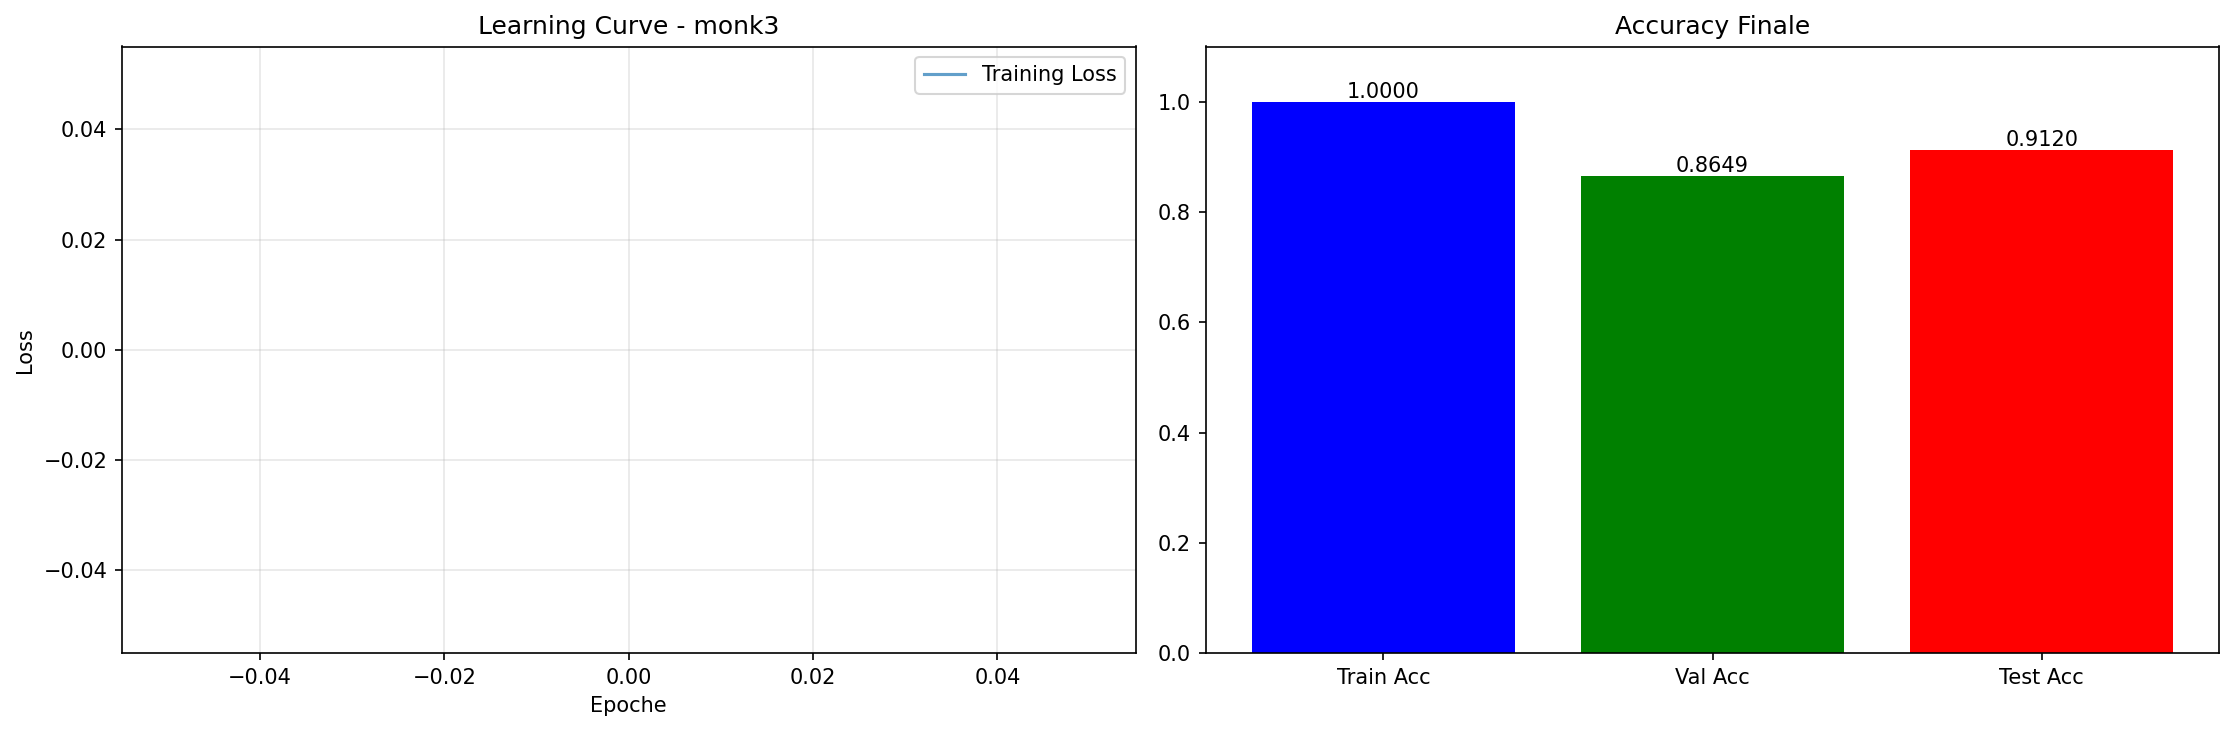
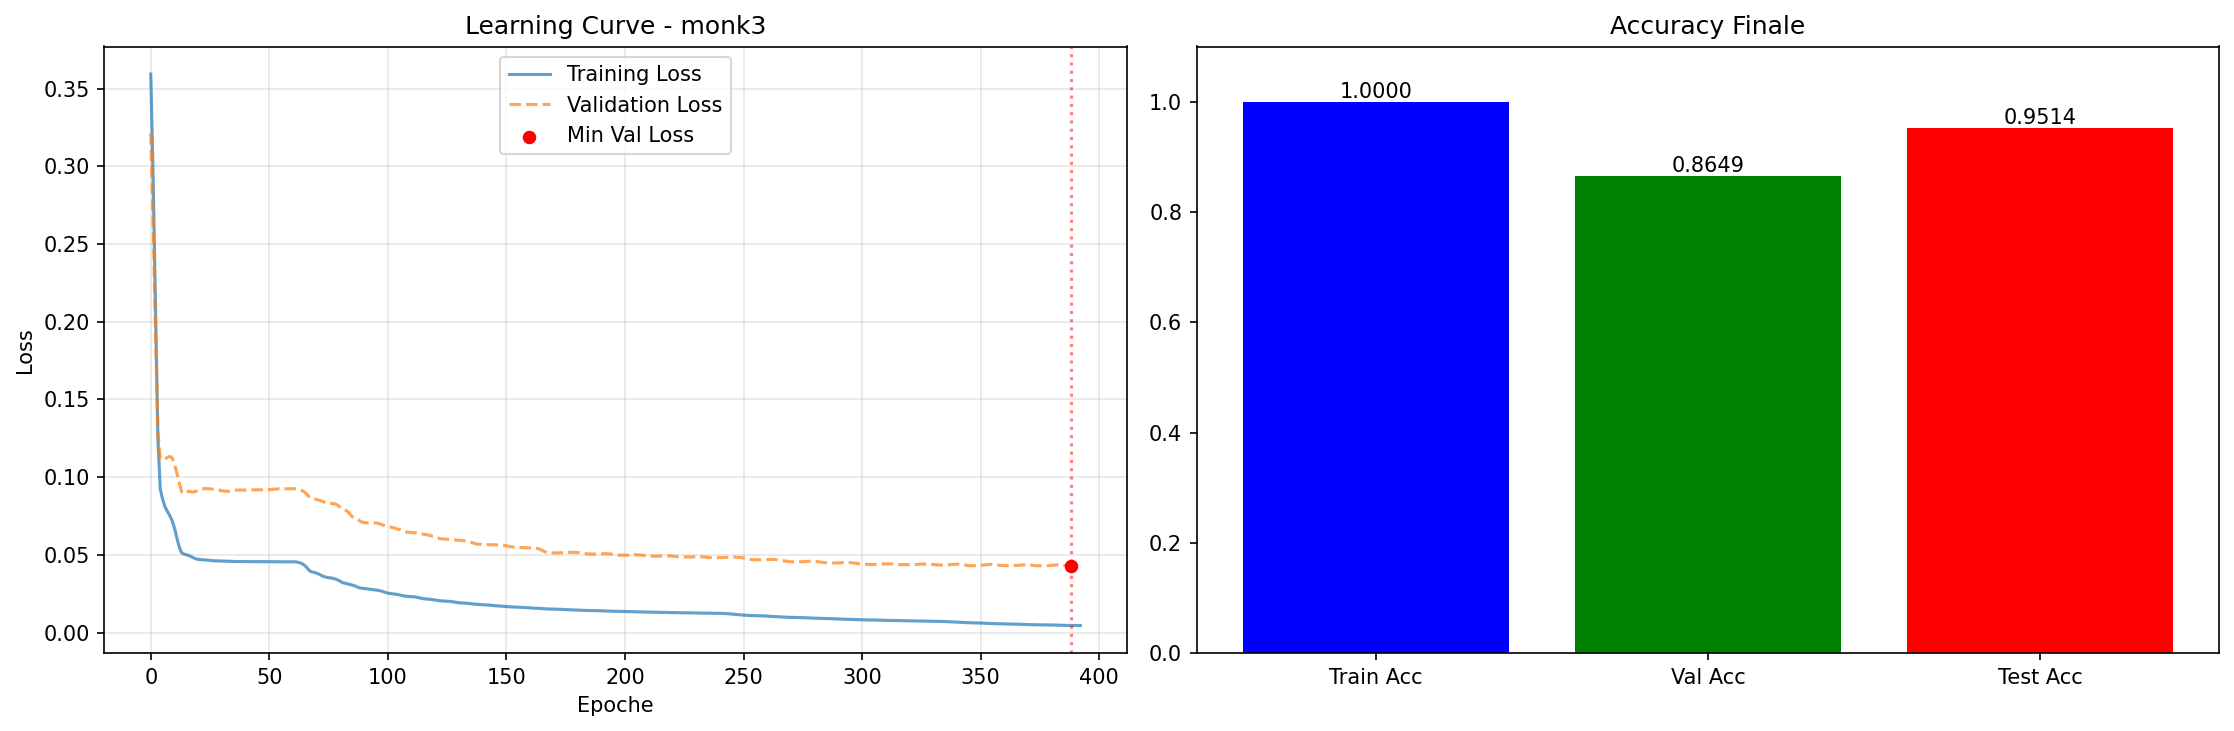
test-1-grid-not-good

diff --git a/src/cascade_grid_search.py b/src/cascade_grid_search.py
@@ -52,16 +52,17 @@ class CascadeGridSearch:
                 algorithm=params['algorithm']
             )
 
-            loss_history = net.train(
+            _ = net.train(
                 self.X_train, self.y_train, 
+                X_val = self.X_val, y_val = self.y_val,
                 max_epochs=params.get('epochs', 1000), 
                 tolerance=params['tolerance'], 
                 patience=params['patience'], 
                 max_hidden_units=params['max_hidden_units']
             )
             
-            print(f"DEBUG TYPE: {type(loss_history)}")
-            print(f"DEBUG CONTENT: {loss_history}") # Stampe di debug
+            loss_history = net.loss_history
+            val_loss_history = net.val_loss_history
             
             y_pred_train = np.array([net.forward(x) for x in self.X_train])
             y_pred_val = np.array([net.forward(x) for x in self.X_val])
@@ -76,7 +77,8 @@ class CascadeGridSearch:
                 'val_loss': val_loss,
                 'test_loss': test_loss,
                 'min_val_loss': val_loss, 
-                'history': loss_history
+                'history': loss_history,
+                'val_history': val_loss_history
             }
             
             if self.dataset_name != 'cup':
@@ -96,30 +98,60 @@ class CascadeGridSearch:
     def coarse_grid_search(self):
         print("INIZIO COARSE SEARCH CASCADE")
 
-        param_grid = {
-            'learning_rate': [0.01, 0.05, 0.1],   
-            'patience': [20, 50],                 
-            'tolerance': [0.01, 0.001],           
-            'max_hidden_units': [5, 10, 15],  # Importante per limitare la crescita    
-            'algorithm': ['quickprop', 'rprop'],
-            'epochs': [1000] # Solitamente fisso alto, tanto si ferma con la pazienza
-        }
+        if self.dataset_name == 'cup':
+            
+            param_grid = {
+                'learning_rate': [0.005, 0.01, 0.05],   
+                'patience': [30, 50, 70],                 
+                'tolerance': [0.001, 0.005, 0.01],           
+                'max_hidden_units': [5, 10, 15],  # Importante per limitare la crescita    
+                'algorithm': ['sgd', 'quickprop', 'rprop'],
+                'l2_lambda': [0.0001, 0.001, 0.01],  # Aggiunta regolarizzazione L2
+                'epochs': [2000], # Solitamente fisso alto, tanto si ferma con la pazienza
+                'momentum': [0.0],  
+                'mu': [0.0],
+                'eta_plus': [0.0],
+                'eta_minus': [0.0]
+            }
+        else:
+            param_grid = {
+                'learning_rate': [0.01, 0.05, 0.1],   
+                'patience': [20, 30],                 
+                'tolerance': [0.01, 0.02, 0.05],           
+                'max_hidden_units': [1, 2],  # Importante per limitare la crescita    
+                'algorithm': ['rprop', 'quickprop'],
+                'momentum': [0.0],  
+                'mu': [1.25, 1.5, 1.75],      # Solo per Quickprop
+                'eta_plus': [1.1, 1.2, 1.3],  # Solo per RPROP
+                'eta_minus': [0.4, 0.5, 0.6], # Solo per RPROP
+                'epochs': [1000], # Solitamente fisso alto, tanto si ferma con la pazienza
+                'l2_lambda': [0.01, 0.05, 0.1]
+            }
         
         # Filtra i parametri non necessari per certi algoritmi
         all_combinations = []
+        default_mu = param_grid['mu'][0]
+        default_ep = param_grid['eta_plus'][0]
+        default_em = param_grid['eta_minus'][0]
+        
         for combo in itertools.product(*param_grid.values()):
             params = dict(zip(param_grid.keys(), combo))
             
+            algo = params['algorithm']
             # Filtra combinazioni inappropriate
-            if params['algorithm'] == 'sgd' and params['momentum'] == 0.0:
-                # Per SGD senza momentum, non serve mu
-                params['mu'] = 1.75  # Valore di default
+            if algo == 'sgd':
+                if params['mu'] != default_mu or params['eta_plus'] != default_ep or params['eta_minus'] != default_em:
+                    continue
                 all_combinations.append(params)
-            elif params['algorithm'] in ['rprop', 'quickprop']:
-                # Per RPROP e Quickprop, non usiamo momentum
-                params['momentum'] = 0.0
+            elif algo == 'rprop':
+                if params['momentum'] != 0.0 or params['mu'] != default_mu:
+                    continue
                 all_combinations.append(params)
-        
+            elif algo == 'quickprop':
+                if params['momentum'] != 0.0 or params['eta_plus'] != default_ep or params['eta_minus'] != default_em:
+                    continue
+            all_combinations.append(params)
+                
         print(f"Numero totale di combinazioni: {len(all_combinations)}")
         
         best_score = float('inf')
@@ -249,22 +281,24 @@ class CascadeGridSearch:
         """Crea grafici dei risultati"""
         fig, axes = plt.subplots(1, 2, figsize=(15, 5))
         
-        training_loss = []
-        validation_loss = []
-            
-        # History è una lista o array numpy
-        if isinstance(history, (list, np.ndarray)):
-            training_loss = history
-            validation_loss = [] 
+        # 1. Recupera le liste corrette
+        training_loss = history
+        # Cerca 'val_history' nel dizionario dei risultati, se non c'è usa lista vuota
+        validation_loss = results.get('val_history', []) 
         
         # Grafico 1: Loss Curves
         axes[0].plot(training_loss, label='Training Loss', alpha=0.7)
         
+        # 2. Plotta la validation solo se contiene dati
         if len(validation_loss) > 0:
-            axes[0].plot(validation_loss, label='Validation Loss', alpha=0.7)
+            axes[0].plot(validation_loss, label='Validation Loss', alpha=0.7, linestyle='--')
+            
             # Minima validation loss
             min_val_idx = np.argmin(validation_loss)
-            axes[0].axvline(x=min_val_idx, color='r', linestyle='--', alpha=0.5)
+            min_val_val = validation_loss[min_val_idx]
+            axes[0].axvline(x=min_val_idx, color='r', linestyle=':', alpha=0.5)
+            # Aggiunge un pallino nel punto di minimo
+            axes[0].scatter(min_val_idx, min_val_val, c='red', s=30, zorder=5, label='Min Val Loss')
             
         axes[0].set_xlabel('Epoche')
         axes[0].set_ylabel('Loss')
@@ -272,7 +306,7 @@ class CascadeGridSearch:
         axes[0].legend()
         axes[0].grid(True, alpha=0.3)
         
-        # Grafico 2: Bar plot delle metriche finali
+        # Grafico 2: Bar plot delle metriche finali 
         if self.dataset_name in ['monk1', 'monk2', 'monk3']:
             metrics = ['Train Acc', 'Val Acc', 'Test Acc']
             values = [results.get('train_accuracy', 0), results.get('val_accuracy', 0), results.get('test_accuracy', 0)]
@@ -300,10 +334,9 @@ class CascadeGridSearch:
         # Salva il grafico
         filename = f'cascade_results_{self.dataset_name}.png'
         plt.savefig(filename, dpi=150, bbox_inches='tight')
-         # plt.show()
         
         print(f"\nGrafico salvato come: {filename}")
-    
+        
     def run(self):
         #esegue la grid search completa
         print(f"\n{'='*80}")

diff --git a/src/cascade_correlation.py b/src/cascade_correlation.py
@@ -2,7 +2,7 @@ import numpy as np
 import neuron as nrn
 
 class CascadeNetwork:
-    def __init__(self, n_inputs, n_outputs, learning_rate=0.1, algorithm="quickprop"):
+    def __init__(self, n_inputs, n_outputs, learning_rate=0.1, algorithm="quickprop", l2_lambda=0.0):
         """
         Inizializza la rete per la Fase 0 in cui non c'è nessuna unità nascosta.
         """
@@ -10,6 +10,7 @@ class CascadeNetwork:
         self.n_outputs = n_outputs
         self.learning_rate = learning_rate
         self.algorithm = algorithm
+        self.l2_lambda = l2_lambda
         
         # La classe CascadeNetwork incapsula i neuroni di output 
         # e il costruttore provvede a costruire i neuroni autonomamente
@@ -29,6 +30,8 @@ class CascadeNetwork:
         # Qui verranno salvati i neuroni nascosti più avanti
         # e sarà l'algoritmo in modo autonomo a decidere se e quanti aggiungerne
         self.hidden_units = []
+        self.loss_history = []
+        self.val_loss_history = []
 
     def forward(self, input_pattern):
         """
@@ -51,12 +54,38 @@ class CascadeNetwork:
             
         return np.array(outputs)
     
-    def train_phase_0(self, X, y, epochs=1000, tolerance=0.01, patience=20):
+    def calculate_loss(self, X, y):
+        """Calcola la loss (MSE) su un dato set (es. Validation)"""
+        if len(X) == 0: return 0.0
+        
+        total_error = 0.0
+        for i in range(len(X)):
+            pattern = X[i]
+            target_pattern = y[i]
+            outputs = self.forward(pattern)
+            
+            for idx in range(len(self.output_neurons)):
+                if isinstance(target_pattern, (list, np.ndarray)):
+                    target = target_pattern[idx]
+                else:
+                    target = target_pattern
+                output = outputs[idx]
+                total_error += 0.5 * (target - output) ** 2
+        
+        return total_error / len(X)
+    
+    def train_phase_0(self, X, y, X_val=None, y_val=None, epochs=1000, tolerance=0.01, patience=20):
         """
         Addestramento dei pesi Input -> Output.
         X: Dataset di input
         y: Target 
         """
+        
+        if not hasattr(self, 'loss_history'):
+            self.loss_history = []
+        if not hasattr(self, 'val_loss_history'):
+            self.val_loss_history = []
+            
         min_error = float('inf') # Inizializza il minimo errore a infinito
         patience_counter = 0 # Contatore per la logica di early stopping
         batch_size = len(X) # Usiamo full-batch perché la Cascade Correlation lo richiede   
@@ -85,14 +114,21 @@ class CascadeNetwork:
                     neuron.compute_delta(error_signal) # Calcola il delta per il neurone di output
                     output = outputs[idx]
                     error_signal = target - output
-                    neuron.compute_delta(error_signal) # Calcola il delta per il neurone di output
                     neuron.accumulate_gradients() # Accumula i gradienti per il neurone di output
+            
+            current_train_loss = total_error / batch_size
+            self.loss_history.append(current_train_loss) # Salva l'errore medio per epoca
+            
+            if X_val is not None and y_val is not None:
+                val_loss = self.calculate_loss(X_val, y_val)
+                self.val_loss_history.append(val_loss)
 
             for neuron in self.output_neurons: # Dopo aver processato tutto il batch, aggiorna i pesi
                 neuron.apply_accumulated_gradients(
                     eta=self.learning_rate,
                     batch_size=batch_size,
-                    algorithm=self.algorithm
+                    algorithm=self.algorithm,
+                    l2_lambda=self.l2_lambda
                 )
             
             if epoch % 100 == 0: # Stampa l'errore ogni 100 epoche
@@ -105,7 +141,7 @@ class CascadeNetwork:
                 patience_counter += 1
             
             if patience_counter >= patience:
-                print(f"Convergenza raggiunta (o stallo) all'epoca {epoch}. Errore finale: {total_error:.5f}")
+                # print(f"Convergenza raggiunta (o stallo) all'epoca {epoch}. Errore finale: {total_error:.5f}")
                 break
         
         return total_error # Per capire se la Cascade Correlation deve aggiungere un nuovo neurone nascosto (lo aggiunge quando l'errore è alto)
@@ -141,10 +177,13 @@ class CascadeNetwork:
                 
         print(f"Neurone nascosto aggiunto. Totale neuroni nascosti: {len(self.hidden_units)}")
         
-    def train(self, X, y, max_epochs=2000, tolerance=0.01, patience=50, max_hidden_units=10):
+    def train(self, X, y, X_val=None, y_val=None, max_epochs=2000, tolerance=0.01, patience=50, max_hidden_units=10):
+        
+        self.loss_history = []
+        self.val_loss_history = []
         
         print("Inizio addestramento (Fase 0)...")
-        current_error = self.train_phase_0(X, y, epochs=max_epochs, tolerance=tolerance, patience=patience)
+        current_error = self.train_phase_0(X, y, X_val=X_val, y_val=y_val, epochs=max_epochs, tolerance=tolerance, patience=patience)
         print(f"Fase 0 completata. Errore: {current_error:.5f}")
         
         while current_error > tolerance and len(self.hidden_units) < max_hidden_units:
@@ -153,7 +192,7 @@ class CascadeNetwork:
             best_candidate = self._train_candidates(X, residuals)
             self._install_candidate(best_candidate)
             print("Riadattamento pesi output...")
-            current_error = self.train_phase_0(X, y, epochs=max_epochs, tolerance=tolerance, patience=patience//2) 
+            current_error = self.train_phase_0(X, y, X_val=X_val, y_val=y_val, epochs=max_epochs, tolerance=tolerance, patience=patience//2) 
             
             if current_error < tolerance:
                 print("SUCCESSO: Obiettivo raggiunto!")

diff --git a/src/main_CUP_cascade.py b/src/main_CUP_cascade.py
@@ -37,7 +37,7 @@ net = CascadeNetwork(n_inputs, n_outputs, eta, algorithm='quickprop')
 
 print("Start training Phase 0 (Linear Training)...")
 
-final_error = net.train(cup_train_X, cup_train_y, max_epochs=2000, tolerance=0.001, patience=30, max_hidden_units=10)
+final_error = net.train(cup_train_X, cup_train_y, X_val=cup_test_X, y_val=cup_test_y, max_epochs=2000, tolerance=0.001, patience=30, max_hidden_units=10)
 
 print(f"Phase 0 ended. Residual Error: {final_error:.5f}")
 
